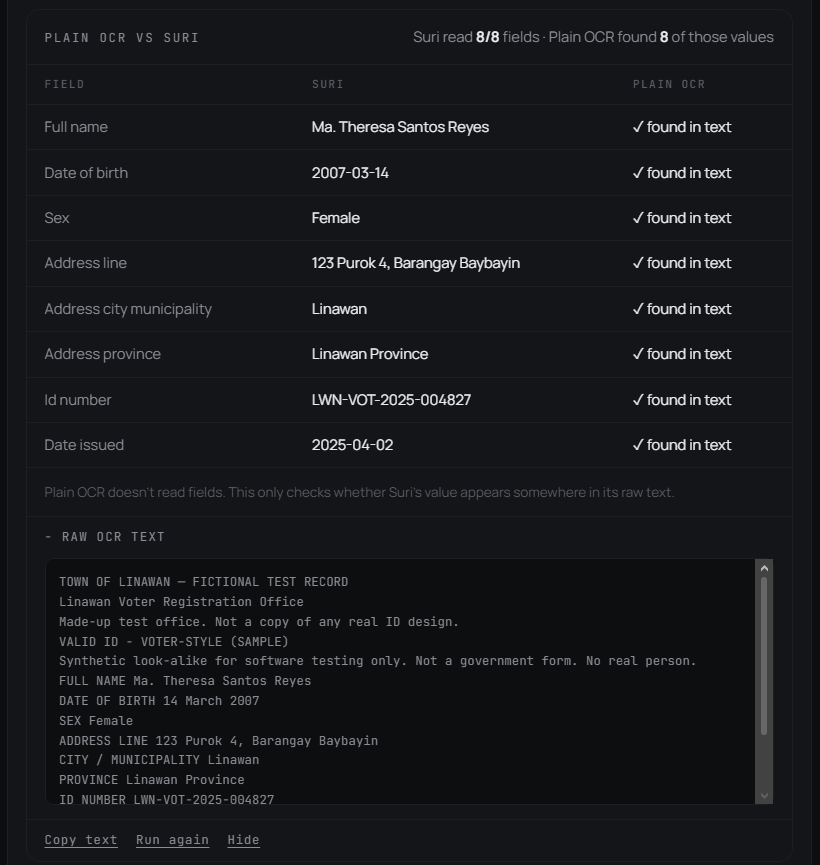
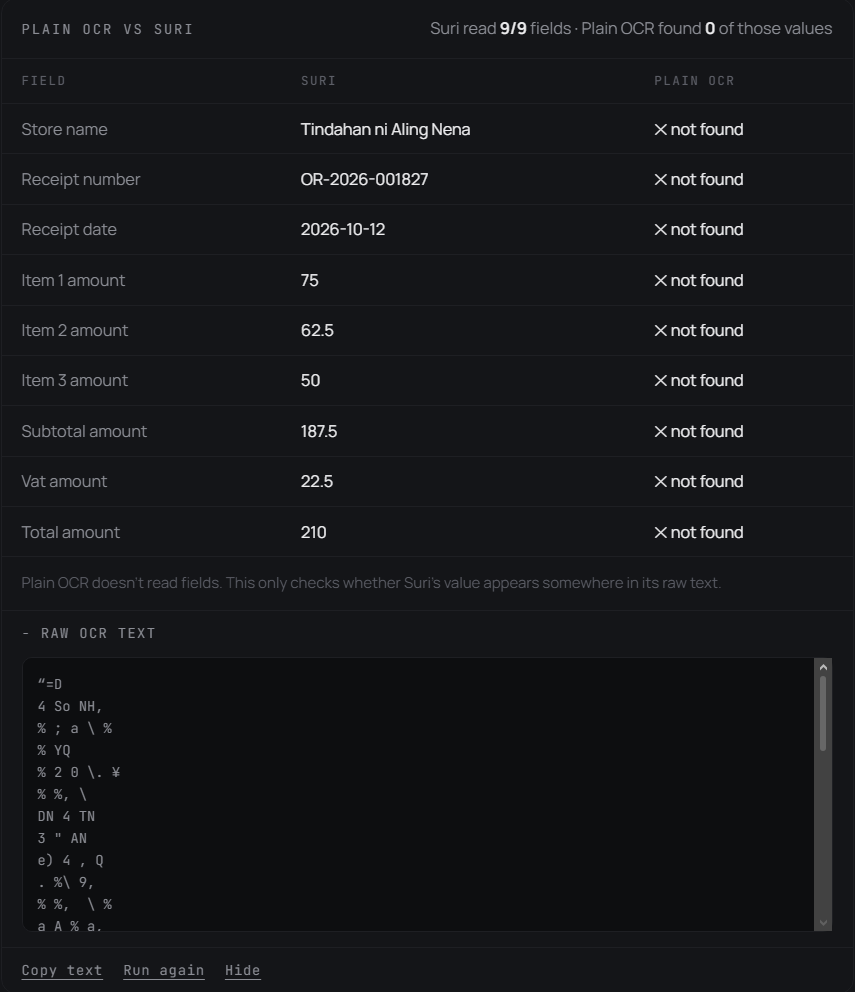
README: landing screenshot, phone-photo OCR comparison

diff --git a/README.md b/README.md
@@ -12,6 +12,8 @@ By "office" I mean any place that asks for papers before it can help you: a scho
 - **Models:** Meta **Muse Spark 1.3** (Meta Model API) and **Muse Spark Open** (open weights, served on **Baseten**)
 - **Built by:** Pauline Estira, solo (design, frontend, backend, database, AI integration, evaluation)
 
+![Suri landing page: "Get it right the first time.", the scanner building a checklist from plain words, and the scorecard](docs/screenshots/landing.png)
+
 ![Reviewer view: the photo next to every field Suri read, the checks, Suri's question and the applicant's answer, and the decision](docs/screenshots/reviewer.png)
 
 ---
